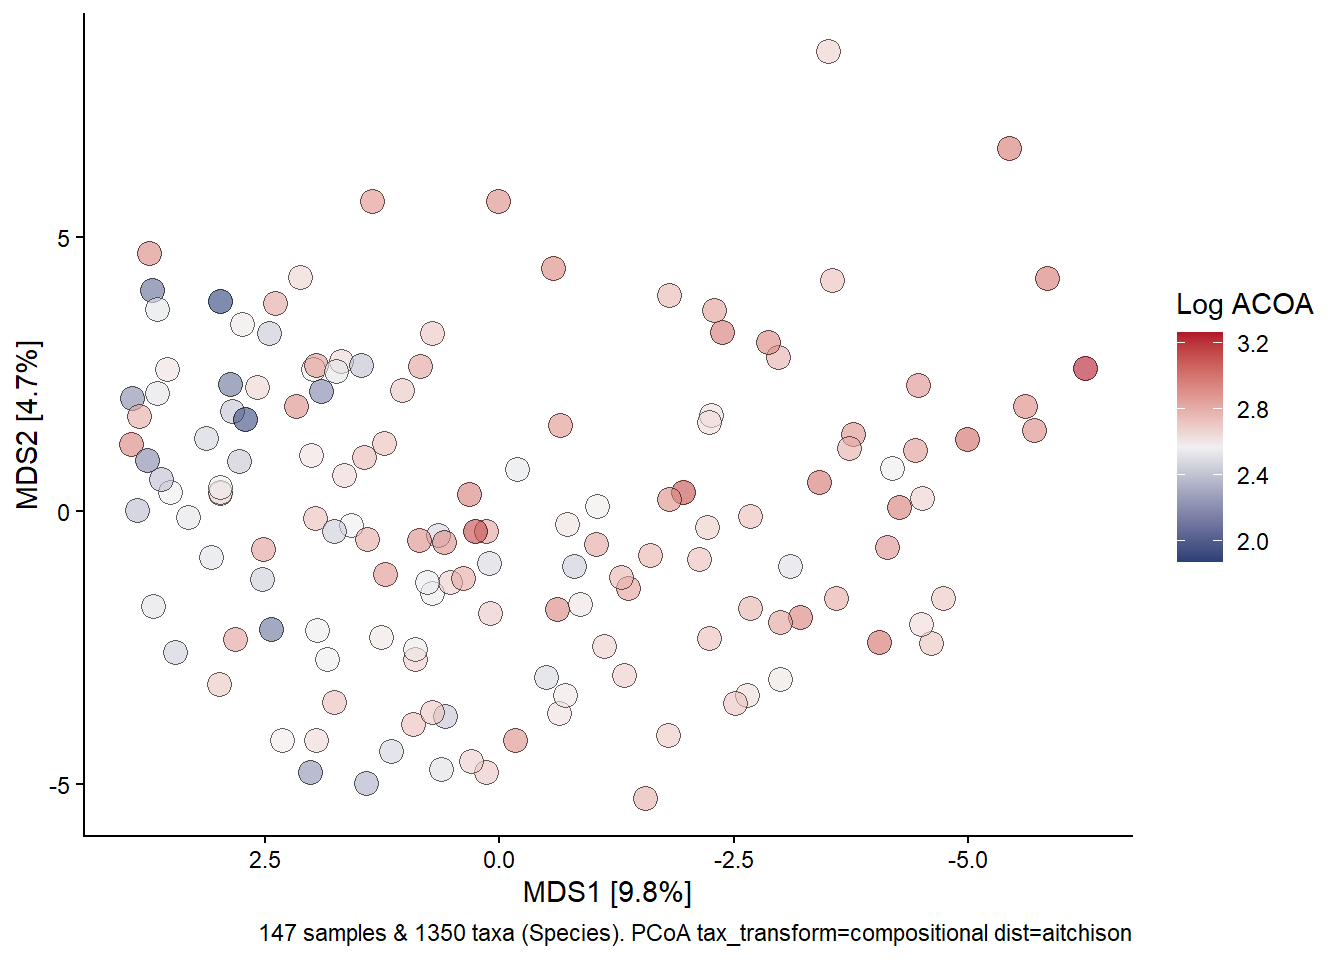
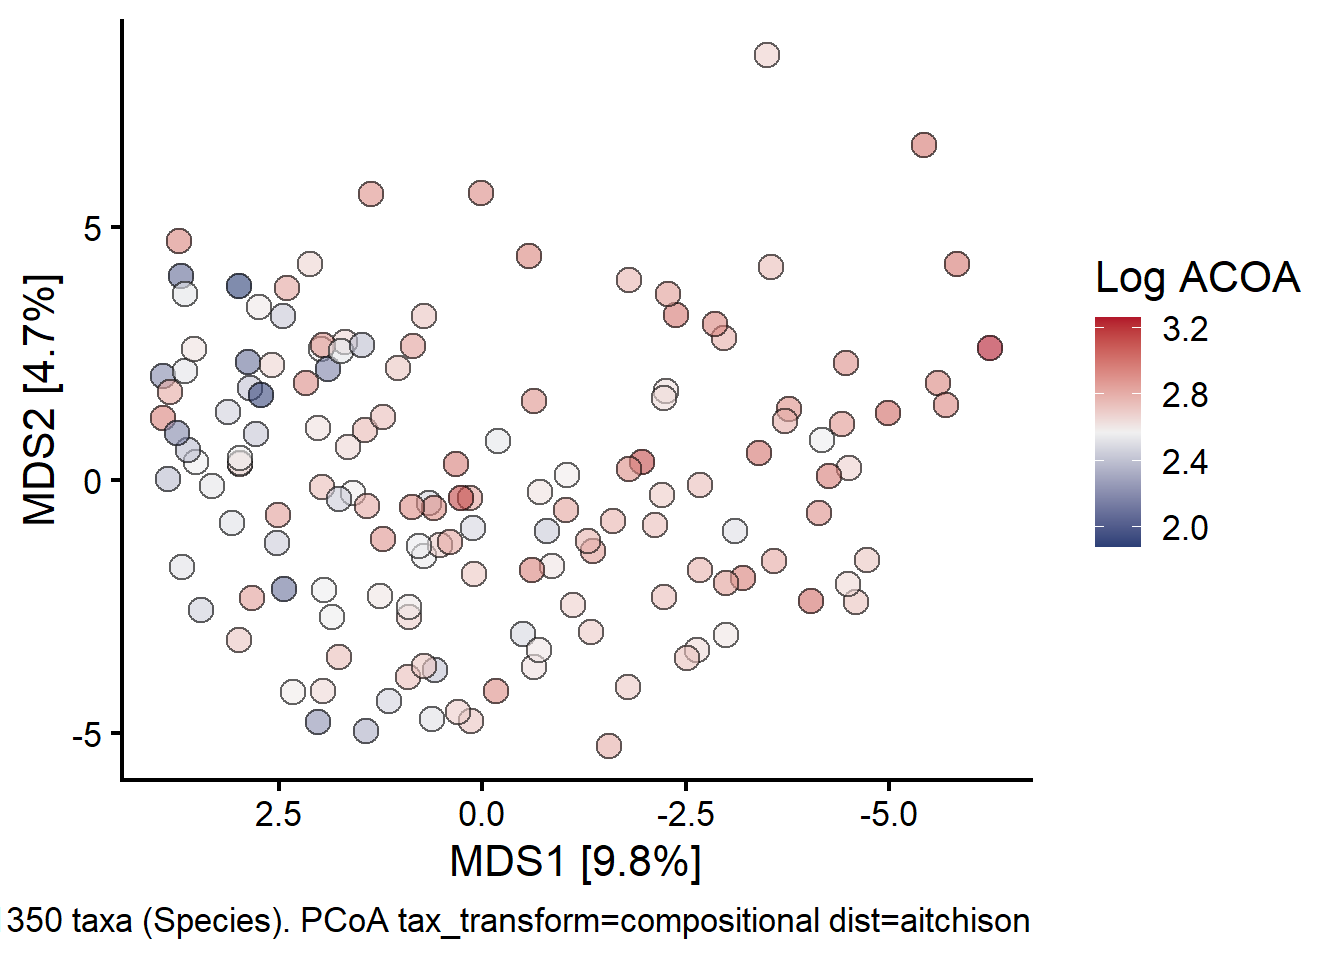
updating landing page and aesthetic properties fig 2

diff --git a/docs/figure_2_acoa_pathway_icb_outcome.html b/docs/figure_2_acoa_pathway_icb_outcome.html
@@ -412,7 +412,7 @@ pre > code.sourceCode > span > a:first-child::before { text-decoration: underlin
 <span id="cb5-7"><a href="#cb5-7" aria-hidden="true" tabindex="-1"></a>  <span class="fu">ord_plot</span>(<span class="at">fill =</span> <span class="st">"log_acoa"</span>, <span class="at">size =</span> <span class="dv">4</span>, <span class="at">shape=</span><span class="dv">21</span>, <span class="at">alpha=</span><span class="fl">0.6</span>,</span>
 <span id="cb5-8"><a href="#cb5-8" aria-hidden="true" tabindex="-1"></a>           <span class="at">plot_taxa =</span> <span class="fu">c</span>(<span class="dv">1</span><span class="sc">:</span><span class="dv">5</span>)) <span class="sc">+</span></span>
 <span id="cb5-9"><a href="#cb5-9" aria-hidden="true" tabindex="-1"></a>  <span class="fu">scale_fill_gradientn</span>(<span class="at">colours=</span><span class="fu">c</span>(<span class="st">"#2b3f76"</span>, <span class="st">"#f0f0f0"</span>, <span class="st">"#b2182b"</span>), <span class="at">values=</span><span class="fu">c</span>(<span class="dv">0</span>, <span class="fl">0.5</span>, <span class="dv">1</span>)) <span class="sc">+</span></span>
-<span id="cb5-10"><a href="#cb5-10" aria-hidden="true" tabindex="-1"></a>  <span class="fu">theme_classic</span>() <span class="sc">+</span>  </span>
+<span id="cb5-10"><a href="#cb5-10" aria-hidden="true" tabindex="-1"></a>  <span class="fu">theme_classic</span>(<span class="at">base_size =</span> <span class="dv">16</span>) <span class="sc">+</span>  </span>
 <span id="cb5-11"><a href="#cb5-11" aria-hidden="true" tabindex="-1"></a>  <span class="fu">scale_x_reverse</span>() <span class="sc">+</span> </span>
 <span id="cb5-12"><a href="#cb5-12" aria-hidden="true" tabindex="-1"></a>  <span class="fu">labs</span>(</span>
 <span id="cb5-13"><a href="#cb5-13" aria-hidden="true" tabindex="-1"></a>    <span class="at">fill =</span> <span class="st">"Log ACOA"</span></span>
@@ -438,7 +438,7 @@ pre > code.sourceCode > span > a:first-child::before { text-decoration: underlin
 <span id="cb6-9"><a href="#cb6-9" aria-hidden="true" tabindex="-1"></a>  <span class="fu">ord_plot</span>(<span class="at">fill =</span> <span class="st">"log_rum"</span>, <span class="at">size =</span> <span class="dv">4</span>, <span class="at">shape=</span><span class="dv">21</span>, <span class="at">alpha=</span><span class="fl">0.6</span>,</span>
 <span id="cb6-10"><a href="#cb6-10" aria-hidden="true" tabindex="-1"></a>           <span class="at">plot_taxa =</span> <span class="fu">c</span>(<span class="dv">1</span><span class="sc">:</span><span class="dv">5</span>)) <span class="sc">+</span></span>
 <span id="cb6-11"><a href="#cb6-11" aria-hidden="true" tabindex="-1"></a>  <span class="fu">scale_fill_gradientn</span>(<span class="at">colours=</span><span class="fu">c</span>(<span class="st">"#2b3f76"</span>, <span class="st">"#f0f0f0"</span>, <span class="st">"#b2182b"</span>), <span class="at">values=</span><span class="fu">c</span>(<span class="dv">0</span>, <span class="fl">0.65</span>, <span class="dv">1</span>)) <span class="sc">+</span></span>
-<span id="cb6-12"><a href="#cb6-12" aria-hidden="true" tabindex="-1"></a>  <span class="fu">theme_classic</span>()<span class="sc">+</span></span>
+<span id="cb6-12"><a href="#cb6-12" aria-hidden="true" tabindex="-1"></a>  <span class="fu">theme_classic</span>(<span class="at">base_size =</span> <span class="dv">16</span>) <span class="sc">+</span> </span>
 <span id="cb6-13"><a href="#cb6-13" aria-hidden="true" tabindex="-1"></a>  <span class="fu">scale_x_reverse</span>() <span class="sc">+</span> </span>
 <span id="cb6-14"><a href="#cb6-14" aria-hidden="true" tabindex="-1"></a>  <span class="fu">labs</span>(</span>
 <span id="cb6-15"><a href="#cb6-15" aria-hidden="true" tabindex="-1"></a>    <span class="at">fill =</span> <span class="st">"Log10 Rel Abund.</span><span class="sc">\n</span><span class="st">Ruminococcaceae"</span></span>
@@ -464,7 +464,7 @@ pre > code.sourceCode > span > a:first-child::before { text-decoration: underlin
 <span id="cb7-9"><a href="#cb7-9" aria-hidden="true" tabindex="-1"></a>  <span class="fu">ord_plot</span>(<span class="at">fill =</span> <span class="st">"log_bac"</span>, <span class="at">size =</span> <span class="dv">4</span>, <span class="at">shape=</span><span class="dv">21</span>, <span class="at">alpha=</span><span class="fl">0.6</span>,</span>
 <span id="cb7-10"><a href="#cb7-10" aria-hidden="true" tabindex="-1"></a>           <span class="at">plot_taxa =</span> <span class="fu">c</span>(<span class="dv">1</span><span class="sc">:</span><span class="dv">5</span>)) <span class="sc">+</span></span>
 <span id="cb7-11"><a href="#cb7-11" aria-hidden="true" tabindex="-1"></a>  <span class="fu">scale_fill_gradientn</span>(<span class="at">colours=</span><span class="fu">c</span>(<span class="st">"#2b3f76"</span>, <span class="st">"#f0f0f0"</span>, <span class="st">"#b2182b"</span>), <span class="at">values=</span><span class="fu">c</span>(<span class="dv">0</span>, <span class="fl">0.75</span>, <span class="dv">1</span>)) <span class="sc">+</span></span>
-<span id="cb7-12"><a href="#cb7-12" aria-hidden="true" tabindex="-1"></a>  <span class="fu">theme_classic</span>() <span class="sc">+</span></span>
+<span id="cb7-12"><a href="#cb7-12" aria-hidden="true" tabindex="-1"></a>  <span class="fu">theme_classic</span>(<span class="at">base_size =</span> <span class="dv">16</span>) <span class="sc">+</span> </span>
 <span id="cb7-13"><a href="#cb7-13" aria-hidden="true" tabindex="-1"></a>  <span class="fu">scale_x_reverse</span>() <span class="sc">+</span> </span>
 <span id="cb7-14"><a href="#cb7-14" aria-hidden="true" tabindex="-1"></a>  <span class="fu">labs</span>(</span>
 <span id="cb7-15"><a href="#cb7-15" aria-hidden="true" tabindex="-1"></a>    <span class="at">fill =</span> <span class="st">"Log10 Rel Abund.</span><span class="sc">\n</span><span class="st">Bacteroidaceae"</span></span>
@@ -487,19 +487,17 @@ pre > code.sourceCode > span > a:first-child::before { text-decoration: underlin
 <span id="cb8-3"><a href="#cb8-3" aria-hidden="true" tabindex="-1"></a><span class="co">#Figure 2D</span></span>
 <span id="cb8-4"><a href="#cb8-4" aria-hidden="true" tabindex="-1"></a><span class="fu">ggplot</span>(coh_base_ni, <span class="fu">aes</span>(<span class="at">x =</span> response, <span class="at">y =</span> pyruvate)) <span class="sc">+</span></span>
 <span id="cb8-5"><a href="#cb8-5" aria-hidden="true" tabindex="-1"></a>  <span class="fu">geom_boxplot</span>(<span class="at">width =</span> <span class="fl">0.4</span>, <span class="at">outlier.shape =</span> <span class="cn">NA</span>, <span class="at">linewidth =</span> <span class="fl">0.6</span>, <span class="at">color =</span> <span class="st">"black"</span>) <span class="sc">+</span></span>
-<span id="cb8-6"><a href="#cb8-6" aria-hidden="true" tabindex="-1"></a>  <span class="fu">geom_jitter</span>(<span class="fu">aes</span>(<span class="at">fill =</span> response), <span class="at">shape =</span> <span class="dv">21</span>, <span class="at">width =</span> <span class="fl">0.15</span>, <span class="at">size =</span> <span class="fl">1.8</span>, <span class="at">stroke =</span> <span class="fl">0.3</span>, <span class="at">color =</span> <span class="st">"black"</span>, <span class="at">alpha =</span> <span class="fl">0.7</span>) <span class="sc">+</span></span>
+<span id="cb8-6"><a href="#cb8-6" aria-hidden="true" tabindex="-1"></a>  <span class="fu">geom_jitter</span>(<span class="fu">aes</span>(<span class="at">fill =</span> response), <span class="at">shape =</span> <span class="dv">21</span>, <span class="at">width =</span> <span class="fl">0.15</span>, <span class="at">size =</span> <span class="dv">5</span>, <span class="at">stroke =</span> <span class="fl">0.3</span>, <span class="at">color =</span> <span class="st">"black"</span>, <span class="at">alpha =</span> <span class="fl">0.7</span>) <span class="sc">+</span></span>
 <span id="cb8-7"><a href="#cb8-7" aria-hidden="true" tabindex="-1"></a>  <span class="fu">scale_fill_manual</span>(<span class="at">values =</span> <span class="fu">c</span>(<span class="st">"#999999"</span>, <span class="st">"#E69F00"</span>)) <span class="sc">+</span></span>
 <span id="cb8-8"><a href="#cb8-8" aria-hidden="true" tabindex="-1"></a>  <span class="fu">scale_x_discrete</span>(<span class="at">labels =</span> <span class="fu">c</span>(<span class="st">"Non-responder"</span>, <span class="st">"Responder"</span>)) <span class="sc">+</span></span>
-<span id="cb8-9"><a href="#cb8-9" aria-hidden="true" tabindex="-1"></a>  <span class="fu">theme_classic</span>(<span class="at">base_size =</span> <span class="dv">9</span>) <span class="sc">+</span></span>
+<span id="cb8-9"><a href="#cb8-9" aria-hidden="true" tabindex="-1"></a>  <span class="fu">theme_classic</span>(<span class="at">base_size =</span> <span class="dv">16</span>) <span class="sc">+</span></span>
 <span id="cb8-10"><a href="#cb8-10" aria-hidden="true" tabindex="-1"></a>  <span class="fu">theme</span>(</span>
-<span id="cb8-11"><a href="#cb8-11" aria-hidden="true" tabindex="-1"></a>    <span class="at">axis.text =</span> <span class="fu">element_text</span>(<span class="at">size =</span> <span class="dv">8</span>),</span>
-<span id="cb8-12"><a href="#cb8-12" aria-hidden="true" tabindex="-1"></a>    <span class="at">axis.title =</span> <span class="fu">element_text</span>(<span class="at">size =</span> <span class="dv">9</span>),</span>
-<span id="cb8-13"><a href="#cb8-13" aria-hidden="true" tabindex="-1"></a>    <span class="at">legend.position =</span> <span class="st">"none"</span>,</span>
-<span id="cb8-14"><a href="#cb8-14" aria-hidden="true" tabindex="-1"></a>    <span class="at">axis.line =</span> <span class="fu">element_line</span>(<span class="at">color =</span> <span class="st">"black"</span>, <span class="at">linewidth =</span> <span class="fl">0.5</span>),</span>
-<span id="cb8-15"><a href="#cb8-15" aria-hidden="true" tabindex="-1"></a>    <span class="at">axis.ticks =</span> <span class="fu">element_line</span>(<span class="at">color =</span> <span class="st">"black"</span>, <span class="at">linewidth =</span> <span class="fl">0.5</span>)</span>
-<span id="cb8-16"><a href="#cb8-16" aria-hidden="true" tabindex="-1"></a>  ) <span class="sc">+</span></span>
-<span id="cb8-17"><a href="#cb8-17" aria-hidden="true" tabindex="-1"></a>  <span class="fu">xlab</span>(<span class="st">""</span>) <span class="sc">+</span></span>
-<span id="cb8-18"><a href="#cb8-18" aria-hidden="true" tabindex="-1"></a>  <span class="fu">ylab</span>(<span class="st">"ACoA pathway gene abundance (RPKM)"</span>)</span></code><button title="Copy to Clipboard" class="code-copy-button"><i class="bi"></i></button></pre></div>
+<span id="cb8-11"><a href="#cb8-11" aria-hidden="true" tabindex="-1"></a>    <span class="at">legend.position =</span> <span class="st">"none"</span>,</span>
+<span id="cb8-12"><a href="#cb8-12" aria-hidden="true" tabindex="-1"></a>    <span class="at">axis.line =</span> <span class="fu">element_line</span>(<span class="at">color =</span> <span class="st">"black"</span>, <span class="at">linewidth =</span> <span class="fl">0.5</span>),</span>
+<span id="cb8-13"><a href="#cb8-13" aria-hidden="true" tabindex="-1"></a>    <span class="at">axis.ticks =</span> <span class="fu">element_line</span>(<span class="at">color =</span> <span class="st">"black"</span>, <span class="at">linewidth =</span> <span class="fl">0.5</span>)</span>
+<span id="cb8-14"><a href="#cb8-14" aria-hidden="true" tabindex="-1"></a>  ) <span class="sc">+</span></span>
+<span id="cb8-15"><a href="#cb8-15" aria-hidden="true" tabindex="-1"></a>  <span class="fu">xlab</span>(<span class="st">""</span>) <span class="sc">+</span></span>
+<span id="cb8-16"><a href="#cb8-16" aria-hidden="true" tabindex="-1"></a>  <span class="fu">ylab</span>(<span class="st">"ACoA pathway gene abundance (RPKM)"</span>)</span></code><button title="Copy to Clipboard" class="code-copy-button"><i class="bi"></i></button></pre></div>
 <div class="cell-output-display">
 <div>
 <figure class="figure">

diff --git a/docs/index.html b/docs/index.html
@@ -248,7 +248,6 @@ ul.task-list li input[type="checkbox"] {
 
 
 <p>This site is dedicated to the corresponding manuscript: “Dietary fiber intake and gut microbial fiber fermentation capacity are associated with favorable clinical outcomes following immune checkpoint blockade”</p>
-<p>Where possible code has been written so that it can be executed from this repository. However there are certain types of data we are not able to make public. Cells which rely on private data will be marked as not executable, however, even in cases where the data is not public all to code used to generate figures is here.</p>
 <p>This is a Quarto website.</p>
 <p>To learn more about Quarto websites visit <a href="https://quarto.org/docs/websites" class="uri">https://quarto.org/docs/websites</a>.</p>
 
